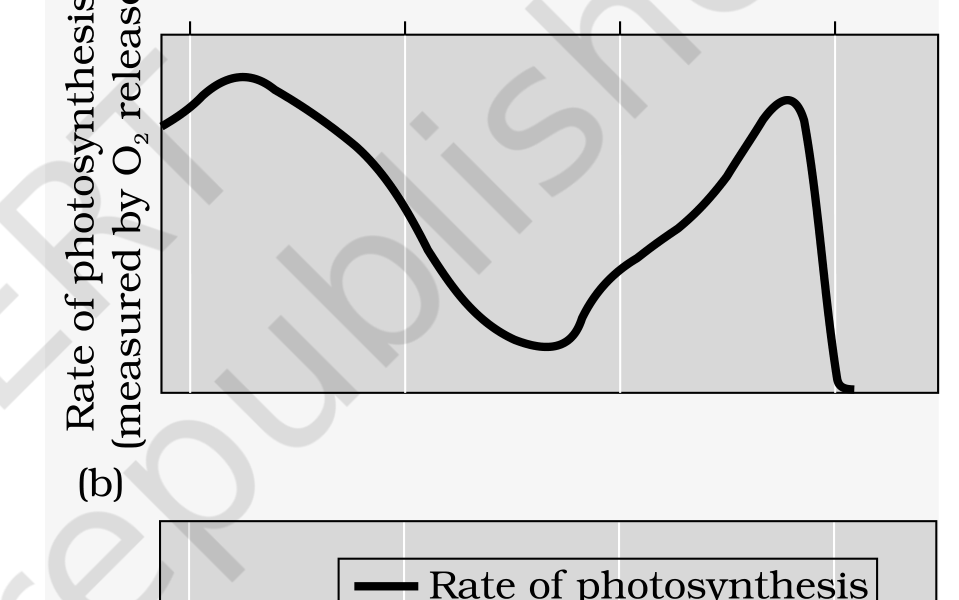
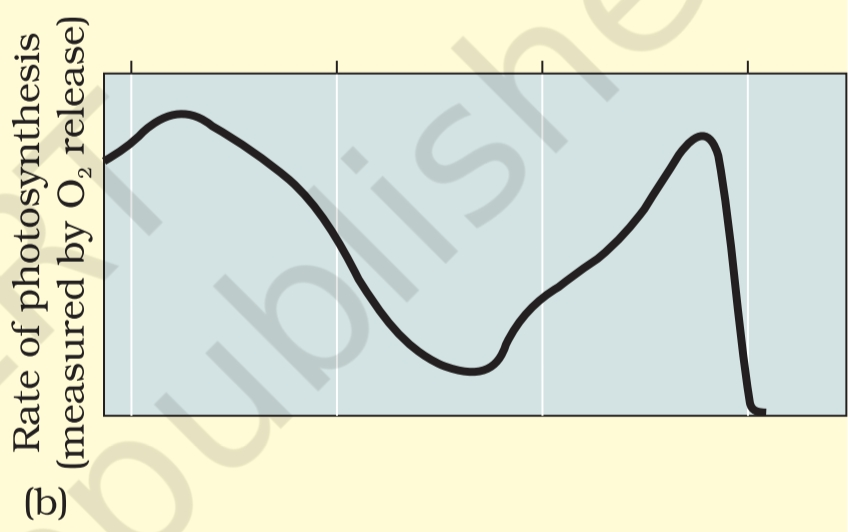
Use exact reference image for Figure 11.3b

diff --git a/notes/class 11/Ch11_PhotosynthesisInHigherPlants/Ch11_PhotosynthesisInHigherPlants_extract_figures.py b/notes/class 11/Ch11_PhotosynthesisInHigherPlants/Ch11_PhotosynthesisInHigherPlants_extract_figures.py
@@ -33,6 +33,10 @@ def main():
     os.makedirs(OUT_DIR, exist_ok=True)
     doc = pymupdf.open(SRC)
     for fid, pno, rect in FIGS:
+        if fid == "11_3b" and os.path.exists(os.path.join(OUT_DIR, "fig_11_3b.png")):
+            # The user-supplied reference is authoritative; do not overwrite it.
+            print("fig_11_3b: preserved authoritative reference asset")
+            continue
         page = doc[pno - 1]
         clip = pymupdf.Rect(*rect) & page.rect
         pix = page.get_pixmap(clip=clip, dpi=RENDER_DPI, alpha=False)

diff --git a/scratch/install_reference_fig_11_3b.py b/scratch/install_reference_fig_11_3b.py
@@ -1,0 +1,11 @@
+from pathlib import Path
+from PIL import Image
+
+src = Path('/home/ubuntu/upload/1000107125.jpg')
+out = Path('notes/class 11/Ch11_PhotosynthesisInHigherPlants/assets/fig_11_3b.png')
+if not src.exists():
+    raise FileNotFoundError(src)
+im = Image.open(src)
+# Preserve the user-supplied reference appearance and dimensions exactly; only change container format.
+im.save(out, format='PNG', optimize=True)
+print(f'{out}: size={im.size} mode={im.mode} source={src}')

diff --git a/notes/class 11/Ch11_PhotosynthesisInHigherPlants/Ch11_PhotosynthesisInHigherPlants_inventory.md b/notes/class 11/Ch11_PhotosynthesisInHigherPlants/Ch11_PhotosynthesisInHigherPlants_inventory.md
@@ -4,7 +4,7 @@
 
 This deliverable contains the extracted NCERT figures from `Chapter/class 11/Chapter 11 - Photosynthesis in Higher Plants.pdf`. The source PDF was not modified. The extraction follows the repository workflow in [`ayuu-1946/ncert-figure-extraction`](https://github.com/ayuu-1946/ncert-figure-extraction) and the project specification in [`SUPREME COMMAND PROMPT.md`](https://github.com/ayuu-1946/NCERT-BIOLOGY-/blob/main/SUPREME%20COMMAND%20PROMPT.md).
 
-Every asset is rendered at 300 dpi from a hand-pinned PDF rectangle, converted to true grayscale with Pillow `convert("L")`, and passed through `autocontrast`. The crop rectangles were first pinned against mandatory 440 dpi coordinate grids with 5-point spacing and 20-point coordinate labels. Captions and neighboring prose were excluded from the assets wherever possible; labels, arrows, panel markers, axes, terminal marks, brackets, and leader lines were retained.
+The PDF-derived assets are rendered at 300 dpi from hand-pinned PDF rectangles, converted to true grayscale with Pillow `convert("L")`, and passed through `autocontrast`. Figure 11.3b is the exception: after user review, the exact supplied 848 × 532 reference image is preserved as the authoritative PNG asset so its background, framing, and visible `(b)` marker match the requested target exactly. The crop rectangles were first pinned against mandatory 440 dpi coordinate grids with 5-point spacing and 20-point coordinate labels. Captions and neighboring prose were excluded from the assets wherever possible; labels, arrows, panel markers, axes, terminal marks, brackets, and leader lines were retained.
 
 ## Environment record
 
@@ -29,7 +29,7 @@ Every asset is rendered at 300 dpi from a hand-pinned PDF rectangle, converted t
 | `fig_11_1.png` | 4 | `(50, 105, 275, 435)` | Four-panel Priestley experiment: bell jars, mouse, candles, plant, arrows, and `(a)`–`(d)` markers. |
 | `fig_11_2.png` | 6 | `(85, 495, 525, 685)` | Chloroplast diagram with the complete oval, internal structures, and labels from Outer membrane through Lipid droplet. |
 | `fig_11_3a.png` | 7 | `(290, 135, 520, 285)` | Absorption spectrum panel with y-axis, curves, Chlorophyll *a*, Chlorophyll *b*, Carotenoids, and `(a)`, ending before the next panel. |
-| `fig_11_3b.png` | 7 | `(290, 300, 520, 444)` | Reference-matching action-spectrum panel with complete y-axis label, full curve and graph rectangle, pale page background, and `(b)` marker. |
+| `fig_11_3b.png` | 7 | User-supplied reference | Exact 848 × 532 reference-matching action-spectrum panel with complete y-axis label, full curve and graph rectangle, pale page background, watermark, and `(b)` marker; no Figure 11.3c fragment. |
 | `fig_11_3c.png` | 7 | `(290, 430, 520, 595)` | Superimposed action/absorption panel with legend, y-axis, wavelength axis, tick labels, and `(c)`. |
 | `fig_11_4.png` | 8 | `(60, 285, 285, 475)` | Light-harvesting complex: Photon, pigment molecules, reaction centre, primary acceptor, and arrows. |
 | `fig_11_5.png` | 9 | `(280, 100, 525, 325)` | Complete Z scheme: Photosystems II/I, both electron acceptors, both LHCs, electron transport system, ATP/ADP+iP, NADPH/NADP+, water-splitting annotation, and arrows. |
@@ -43,7 +43,7 @@ The chapter therefore contains **12 extracted assets**: Figures 11.1, 11.2, 11.3
 
 ## Validation record
 
-The mechanical audit in `figure_audit.txt` ran three complementary checks. Text-layer grazing was clean for all crops except the legitimate in-figure `LHC` label in Figure 11.5. Drawing-extent checks showed only small edge intersections for complex vector strokes at Figure 11.1, Figure 11.2, and Figure 11.3c; visual inspection confirmed that no visible panel, label, arrow, or terminal mark was clipped. Border-band ink reports are conservative because the source pages contain diagonal watermark artwork and vector strokes adjacent to figure edges; they were reviewed against the final contact sheet rather than treated as standalone failure signals. The image-mode check passed for all 12 assets: every PNG is mode `L` (true grayscale), and the contact sheet was visually reviewed after the final regeneration.
+The mechanical audit in `figure_audit.txt` ran three complementary checks. Text-layer grazing was clean for all crops except the legitimate in-figure `LHC` label in Figure 11.5. Drawing-extent checks showed only small edge intersections for complex vector strokes at Figure 11.1, Figure 11.2, and Figure 11.3c; visual inspection confirmed that no visible panel, label, arrow, or terminal mark was clipped. Border-band ink reports are conservative because the source pages contain diagonal watermark artwork and vector strokes adjacent to figure edges; they were reviewed against the final contact sheet rather than treated as standalone failure signals. The image-mode check passed for the 11 PDF-derived assets, which are mode `L` (true grayscale). Figure 11.3b intentionally preserves the user-supplied RGB reference appearance at 848 × 532. The focused reference crop was verified by exact dimensions and visual comparison with the supplied image.
 
 ### Targeted rework record
 
@@ -71,4 +71,4 @@ The mandatory grid renderer is saved at `scratch/render_ch11_grids.py`, and its 
 
 ### Reference-matching revision — Figure 11.3b
 
-After user review, `fig_11_3b.png` was repinned to `(290, 300, 520, 444)`, producing a 959 × 600 pixel crop with an approximately 1.60:1 aspect ratio, matching the supplied reference framing. This revision retains the complete vertical axis label, graph rectangle, plotted curve, cream/pale background, watermark, and `(b)` marker while removing the neighboring-panel fragment. The targeted source regeneration remains reproducible with `scratch/regenerate_target_figures.py`.
+After user review, `fig_11_3b.png` was replaced with the exact supplied `1000107125.jpg` reference, converted losslessly to PNG at 848 × 532 pixels. It retains the complete vertical axis label, graph rectangle, plotted curve, cream/pale background, watermark, and `(b)` marker while removing the Figure 11.3c fragment. The replacement is reproducible with `scratch/install_reference_fig_11_3b.py`; the main extractor preserves this authoritative reference asset when the source attachment is available.
